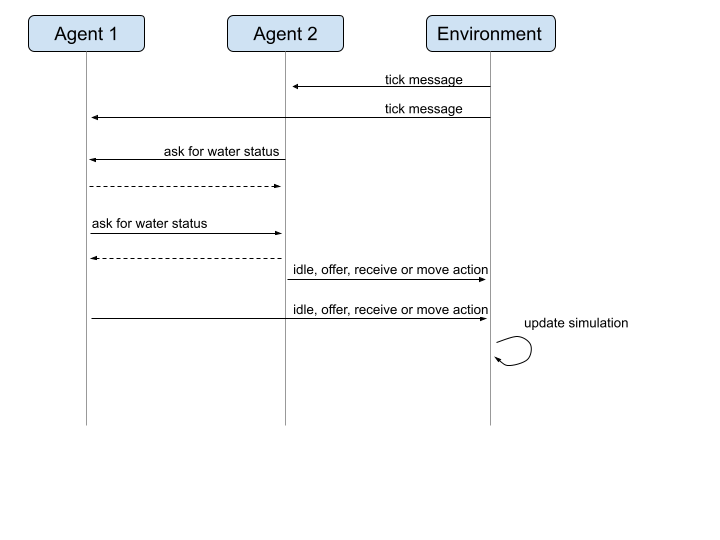
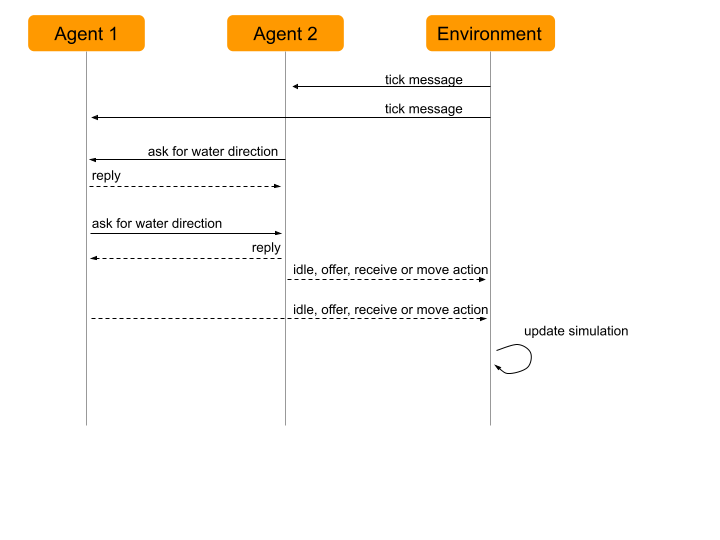
Documentation tweaks

diff --git a/docs/simulation_run.md b/docs/simulation_run.md
@@ -4,6 +4,8 @@ The simulation runs via the AEA framework. Think of the agents as mars rovers, w
 
 The simulation is done by two classes of AEAs. Agent-AEAs are the mars rovers. They communicate with each other, trying to find a good strategy to survive. The environment AEA emulates the world. It sends messages which represent input to the sensors, and receives messages corresponding to actuators.
 
+![Simulation Run Diagram](img/simulation-run-architecture.png)
+
 ## Simulation goals
 The goal of the agents is to survive as long as possible. The idea being that they are stranded on a desert, and use up one unit of water per unit of time. Spread around the desert are water sources. Agents can either mine water from underneath them, pass water to adjacent agents, or move around the desert. The goal is to survive as long as possible as a collective, not as an individual. This software provides a tool for exploring this problem, and tests out three different strategies for survival.
 

diff --git a/docs/strategies.md b/docs/strategies.md
@@ -5,6 +5,13 @@ They help him decide:
 * whether to offer water to his neighbours or not and how much
 * whether to ask for water from his neighbours or not and how much
 
+An agent can take one of the following actions each turn:
+* offer water (specifying how much he offers)
+* receive water (specifying how much he is willing to receive)
+* move (specifying the direction of his move)
+* idle 
+
+
 # Lone Goldfish
 The agent will not communicate with its neighbours. 
 Hence he won’t ask for water nor offer water to them. 

diff --git a/README.md b/README.md
@@ -10,7 +10,7 @@ Note that this project was developed on a limited time scale, and is not under a
 # Installation
 1. Clone this repository.
 2. Install the AEA framework, by following the [AEA Framework Installation Instructions](https://docs.fetch.ai/aea/quickstart/#option-2-automated-install-script).
-3. Install the required python dependencies
+3. Install the required python dependencies. This can be done automatically using the `requirements.txt` file
   * numpy
   * pygame
   * matplotlib
